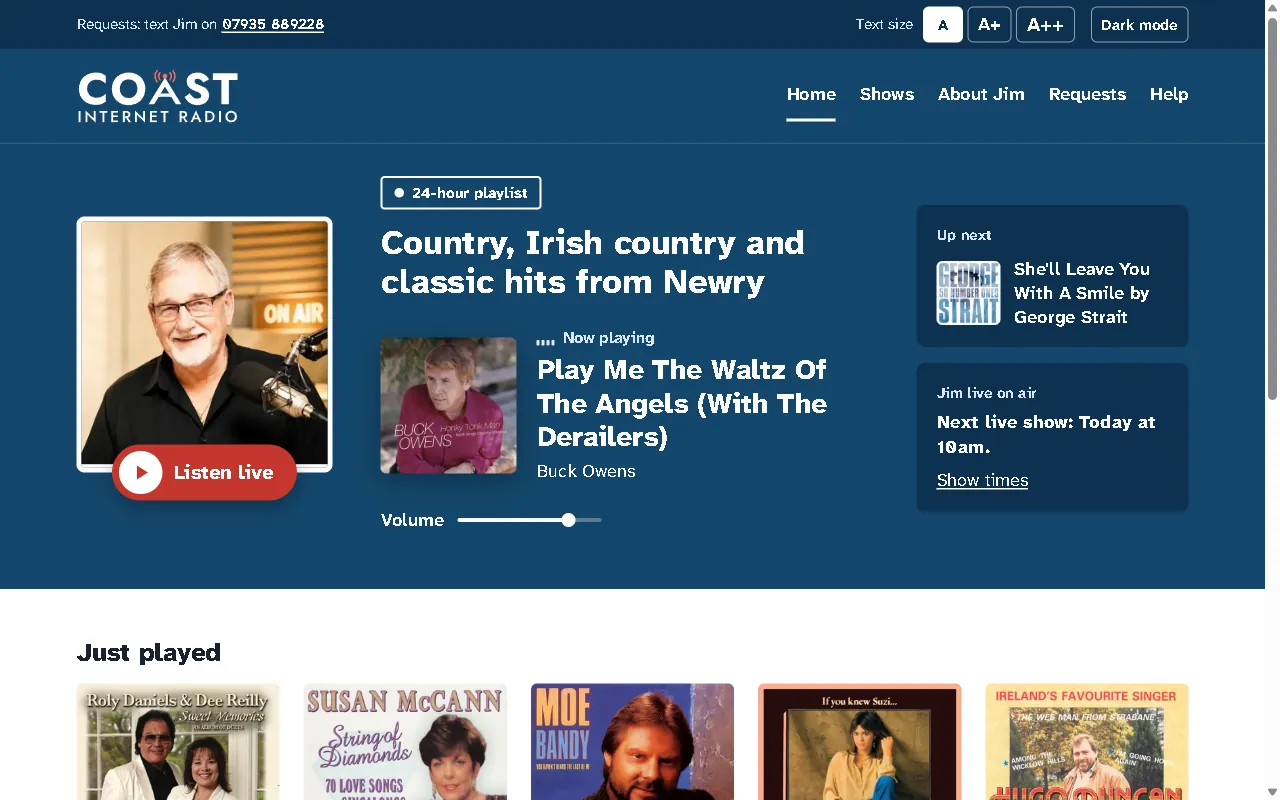
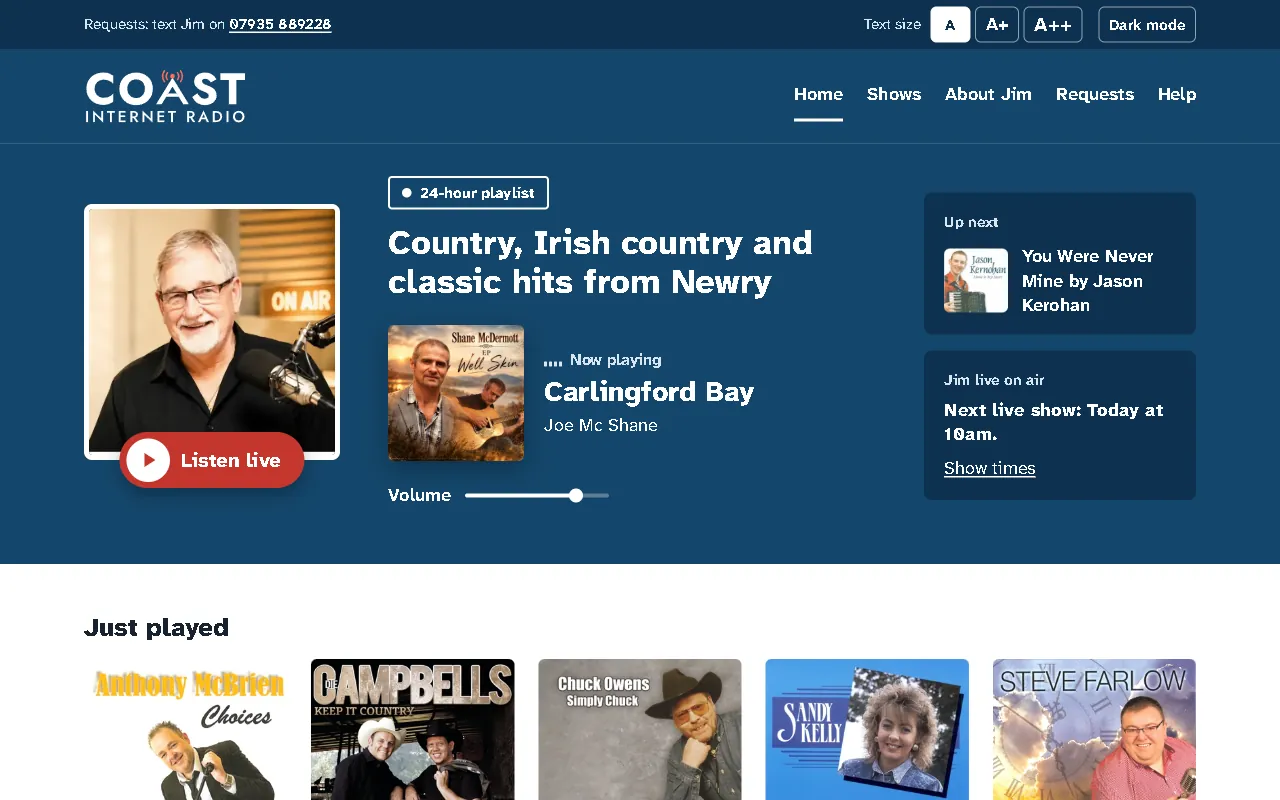
Add a skills line and tighten the homepage
List my skills under the intro so they're easy to find, shorten the Coast summary and leave the detail to the case study, say how I work with Jim and test on a real phone, retake the Coast screenshot without a scrollbar, fix two typos in the case study and keep the menu on one line on most phones.

diff --git a/index.html b/index.html
@@ -38,6 +38,7 @@
       <h1>Jamie Parr</h1>
       <p class="lead">Second-year Computing Technologies student at Ulster University in Belfast. I'm looking for a 12-month placement in software, web development or IT, starting in summer 2027.</p>
       <p>Email <a href="mailto:jamieparr205@gmail.com">jamieparr205@gmail.com</a>, see my code on <a href="https://github.com/JamieP-205">GitHub</a> or <a href="CV.pdf" download="Jamie-Parr-CV.pdf">download my CV (PDF)</a>.</p>
+      <p><strong>Skills:</strong> HTML, CSS, JavaScript, Node.js, Git and GitHub, Netlify, Cloudflare Workers and Playwright testing. Studying Java, and Python with Flask and SQLAlchemy.</p>
     </section>
 
     <section id="projects">
@@ -49,9 +50,8 @@
           <img src="images/coast-internet-radio.webp" width="1280" height="800" alt="The Coast Internet Radio homepage: Jim Parr at the microphone with a red Listen live button, the song playing now with its album cover, and what's up next.">
           <figcaption>The live site, October 2026.</figcaption>
         </figure>
-        <p>The website for Coast Internet Radio, a small internet radio station in Newry run by Jim Parr, a family member. Listeners use it to play the live stream and see what's playing now and next. It has been live since May 2026, and I look after it unpaid. In October 2026 I rebuilt it, adding an editor so Jim can change the words, photos, colours and show times himself.</p>
-        <p>The station's stream is only available over HTTP, and browsers block HTTP audio on an HTTPS page. The site plays it through two small Cloudflare Workers that pass the audio and track information through over HTTPS.</p>
-        <p>I agree with Jim what listeners need, then build, deploy and maintain the changes. I wrote the first version using online tutorials, my class notes and AI tools, and rebuilt it with Claude Code, which wrote and explained much of the code while I tested, committed and deployed the changes.</p>
+        <p>The website for Coast Internet Radio, a small internet radio station in Newry run by Jim Parr, a family member. I built it in May 2026, rebuilt it in October 2026 with an editor so Jim can change the site himself, and look after it unpaid.</p>
+        <p>I wrote the first version using online tutorials, my class notes and AI tools, and rebuilt it with Claude Code, which wrote and explained much of the code while I tested, committed and deployed the changes.</p>
         <p><a href="coast-internet-radio.html">Read the Coast case study</a> or <a href="https://coastinternetradio.com">visit coastinternetradio.com</a>.</p>
       </article>
 
@@ -64,7 +64,7 @@
 
     <section id="how-i-work">
       <h2>How I work</h2>
-      <p>I learn by building things I believe people actually use, starting with the Coast Internet Radio site. I use AI tools for debugging and to explain things I haven't learnt before.</p>
+      <p>I learn by building things I believe people actually use, starting with the Coast Internet Radio site. I agree changes with Jim first, test them on a real iPhone as well as a computer, then deploy them and keep them running. I use AI tools for debugging and to explain things I haven't learnt before.</p>
       <p>This semester I'm studying Java, Python with Flask and SQLAlchemy, and working on an Agile project in a team of five.</p>
     </section>
 

diff --git a/coast-internet-radio.html b/coast-internet-radio.html
@@ -36,7 +36,7 @@
     <section class="intro">
       <h1>Coast Internet Radio</h1>
       <p class="lead">The website for Coast Internet Radio, a small station in Newry run by my relative Jim Parr. I built the first version in May 2026 and rebuilt it from scratch in October 2026. I'm the only developer: I build it, host it and maintain it, unpaid.</p>
-      <p>I wrote the first version using online tutorials, my class notes and AI tools, which helped with debugging, research and some of the more complex code. I rebuilt it and got help from claude code on the more difficult pages like the admin page and some bug fixes. I tested the changes, committed them and deployed them. I also set up the hosting on Netlify and the Cloudflare Workers myself</p>
+      <p>I wrote the first version using online tutorials, my class notes and AI tools, which helped with debugging, research and some of the more complex code. I rebuilt it and got help from Claude Code on the more difficult pages like the admin page and some bug fixes. I tested the changes, committed them and deployed them. I also set up the hosting on Netlify and the Cloudflare Workers myself.</p>
       <p><a href="https://coastinternetradio.com">Visit coastinternetradio.com</a></p>
     </section>
 

diff --git a/style.css b/style.css
@@ -148,6 +148,14 @@ header {
   padding-block: var(--space-1);
 }
 
+/* Keeps the menu on one line on most phones. */
+@media (max-width: 30rem) {
+  header .link-list {
+    column-gap: var(--space-2);
+    font-size: 1rem;
+  }
+}
+
 main > section {
   padding-block: var(--space-4);
 }
